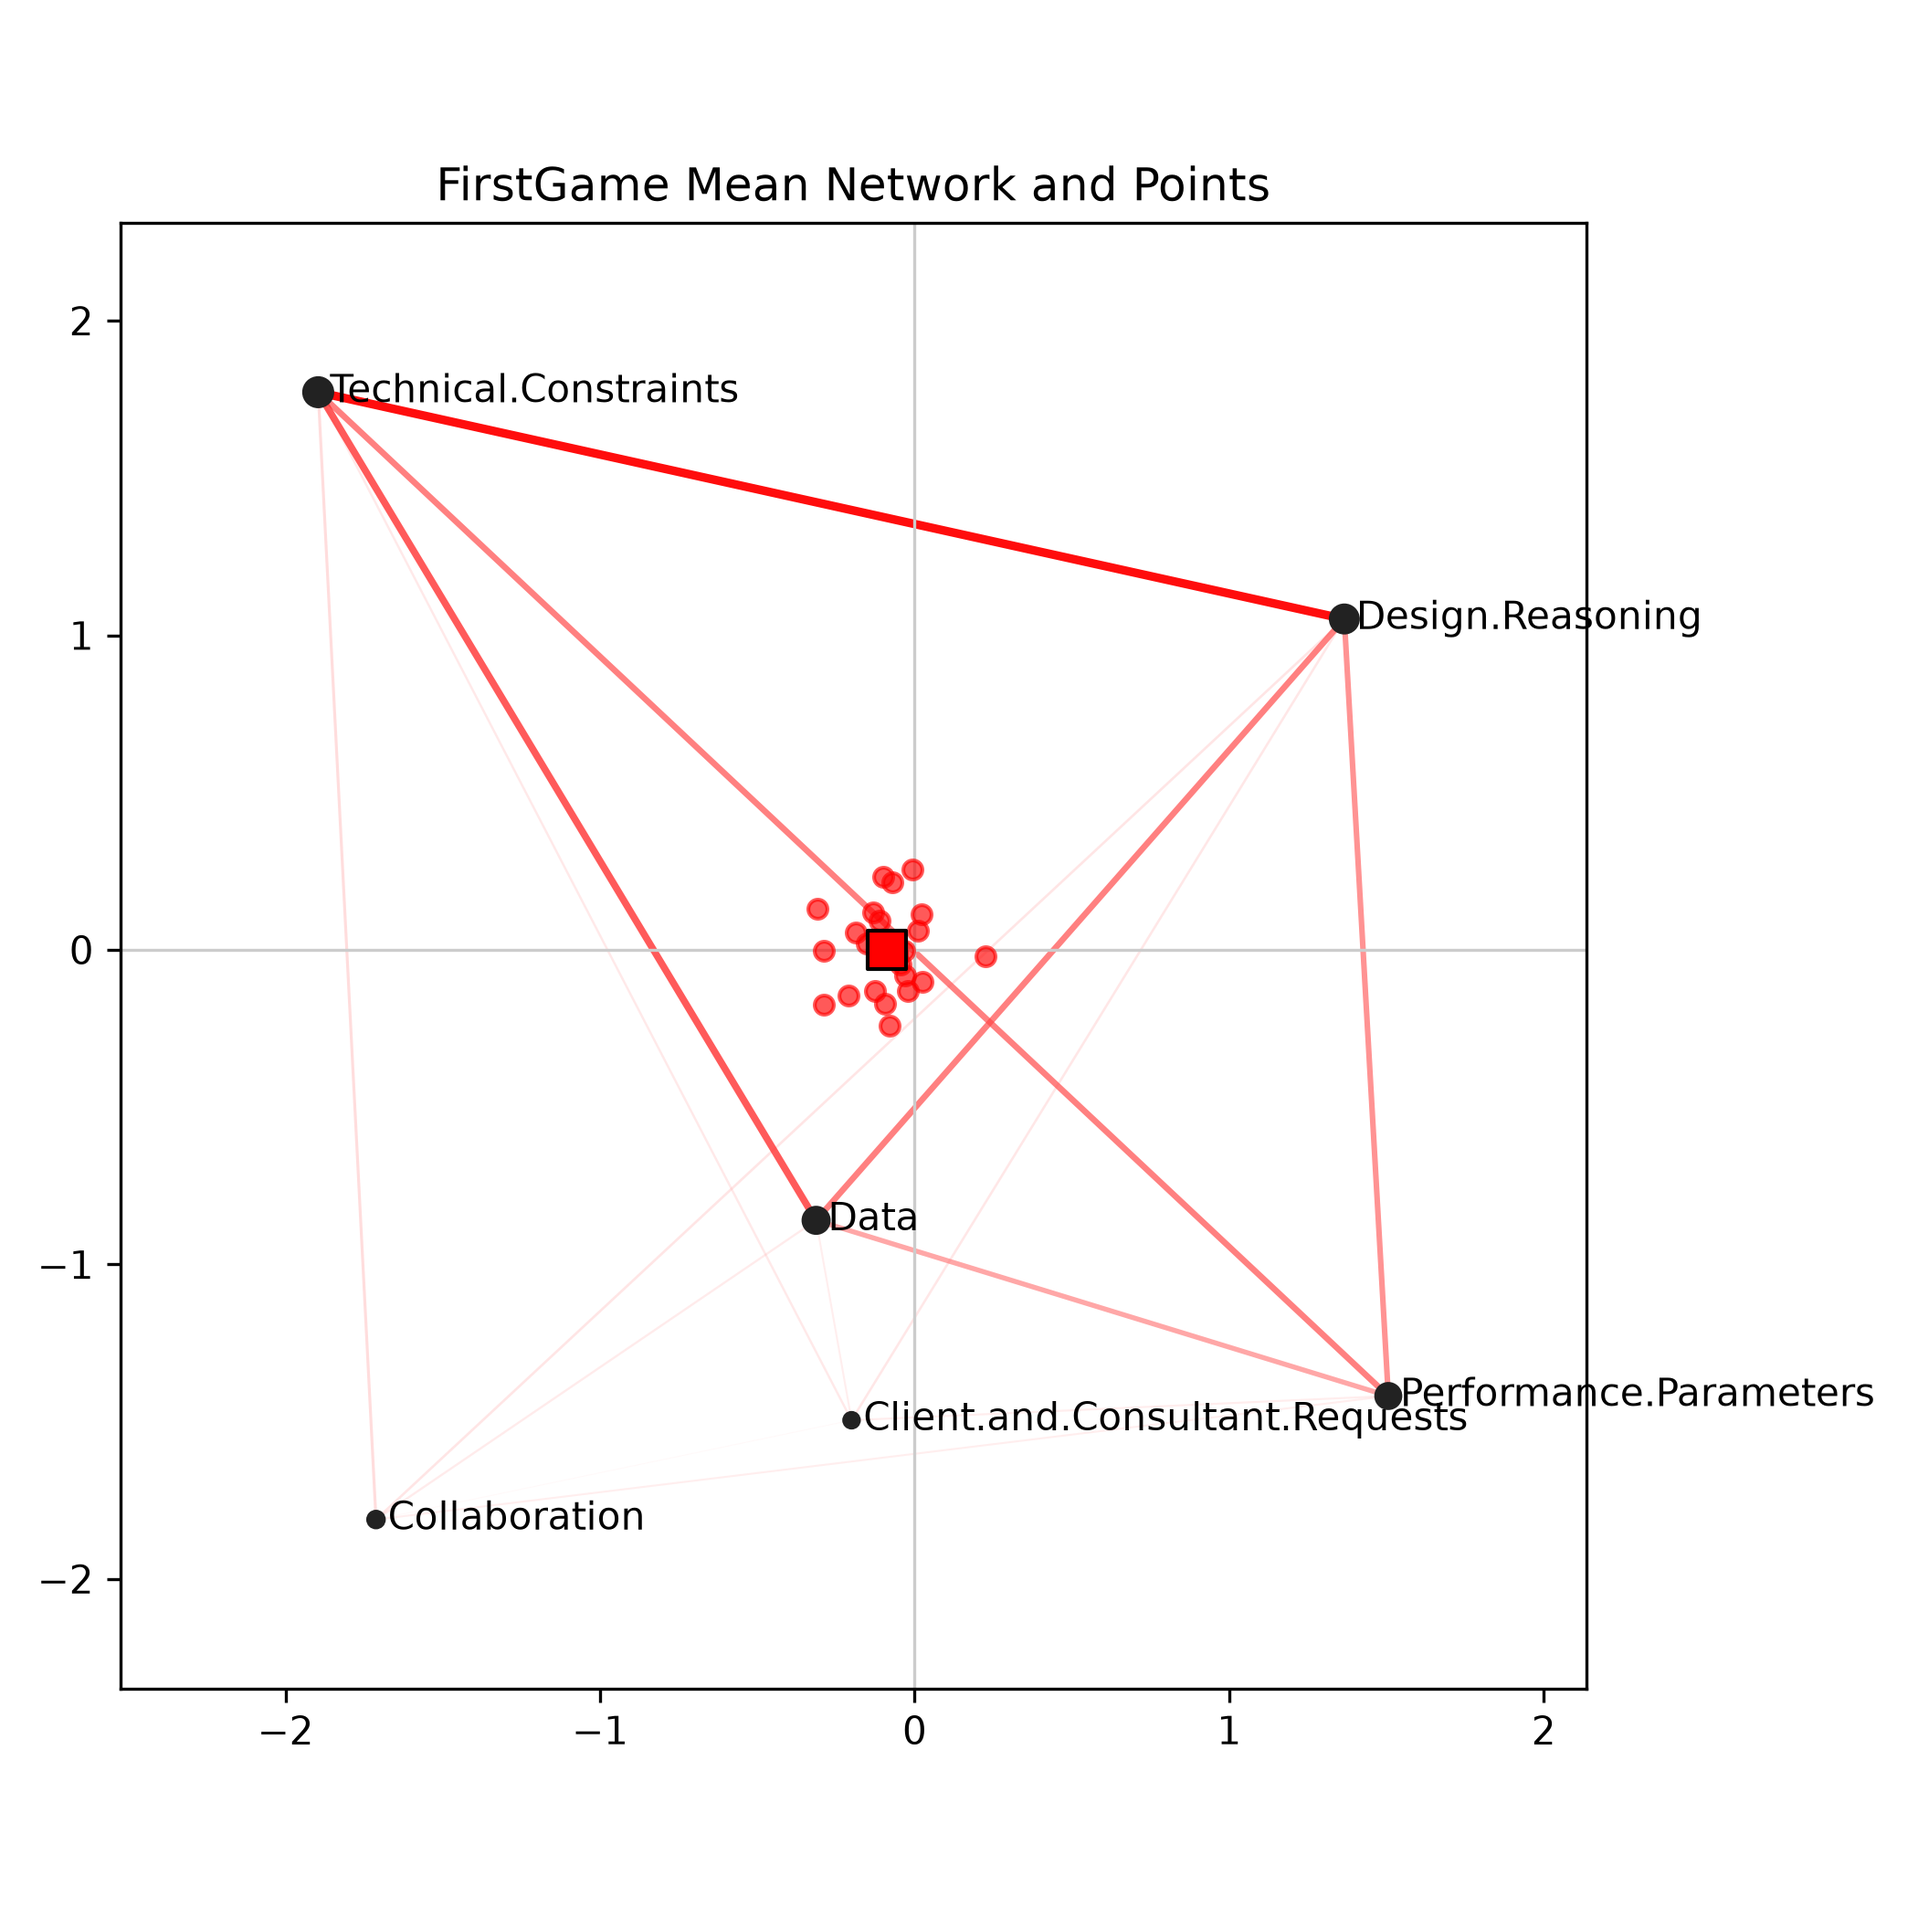
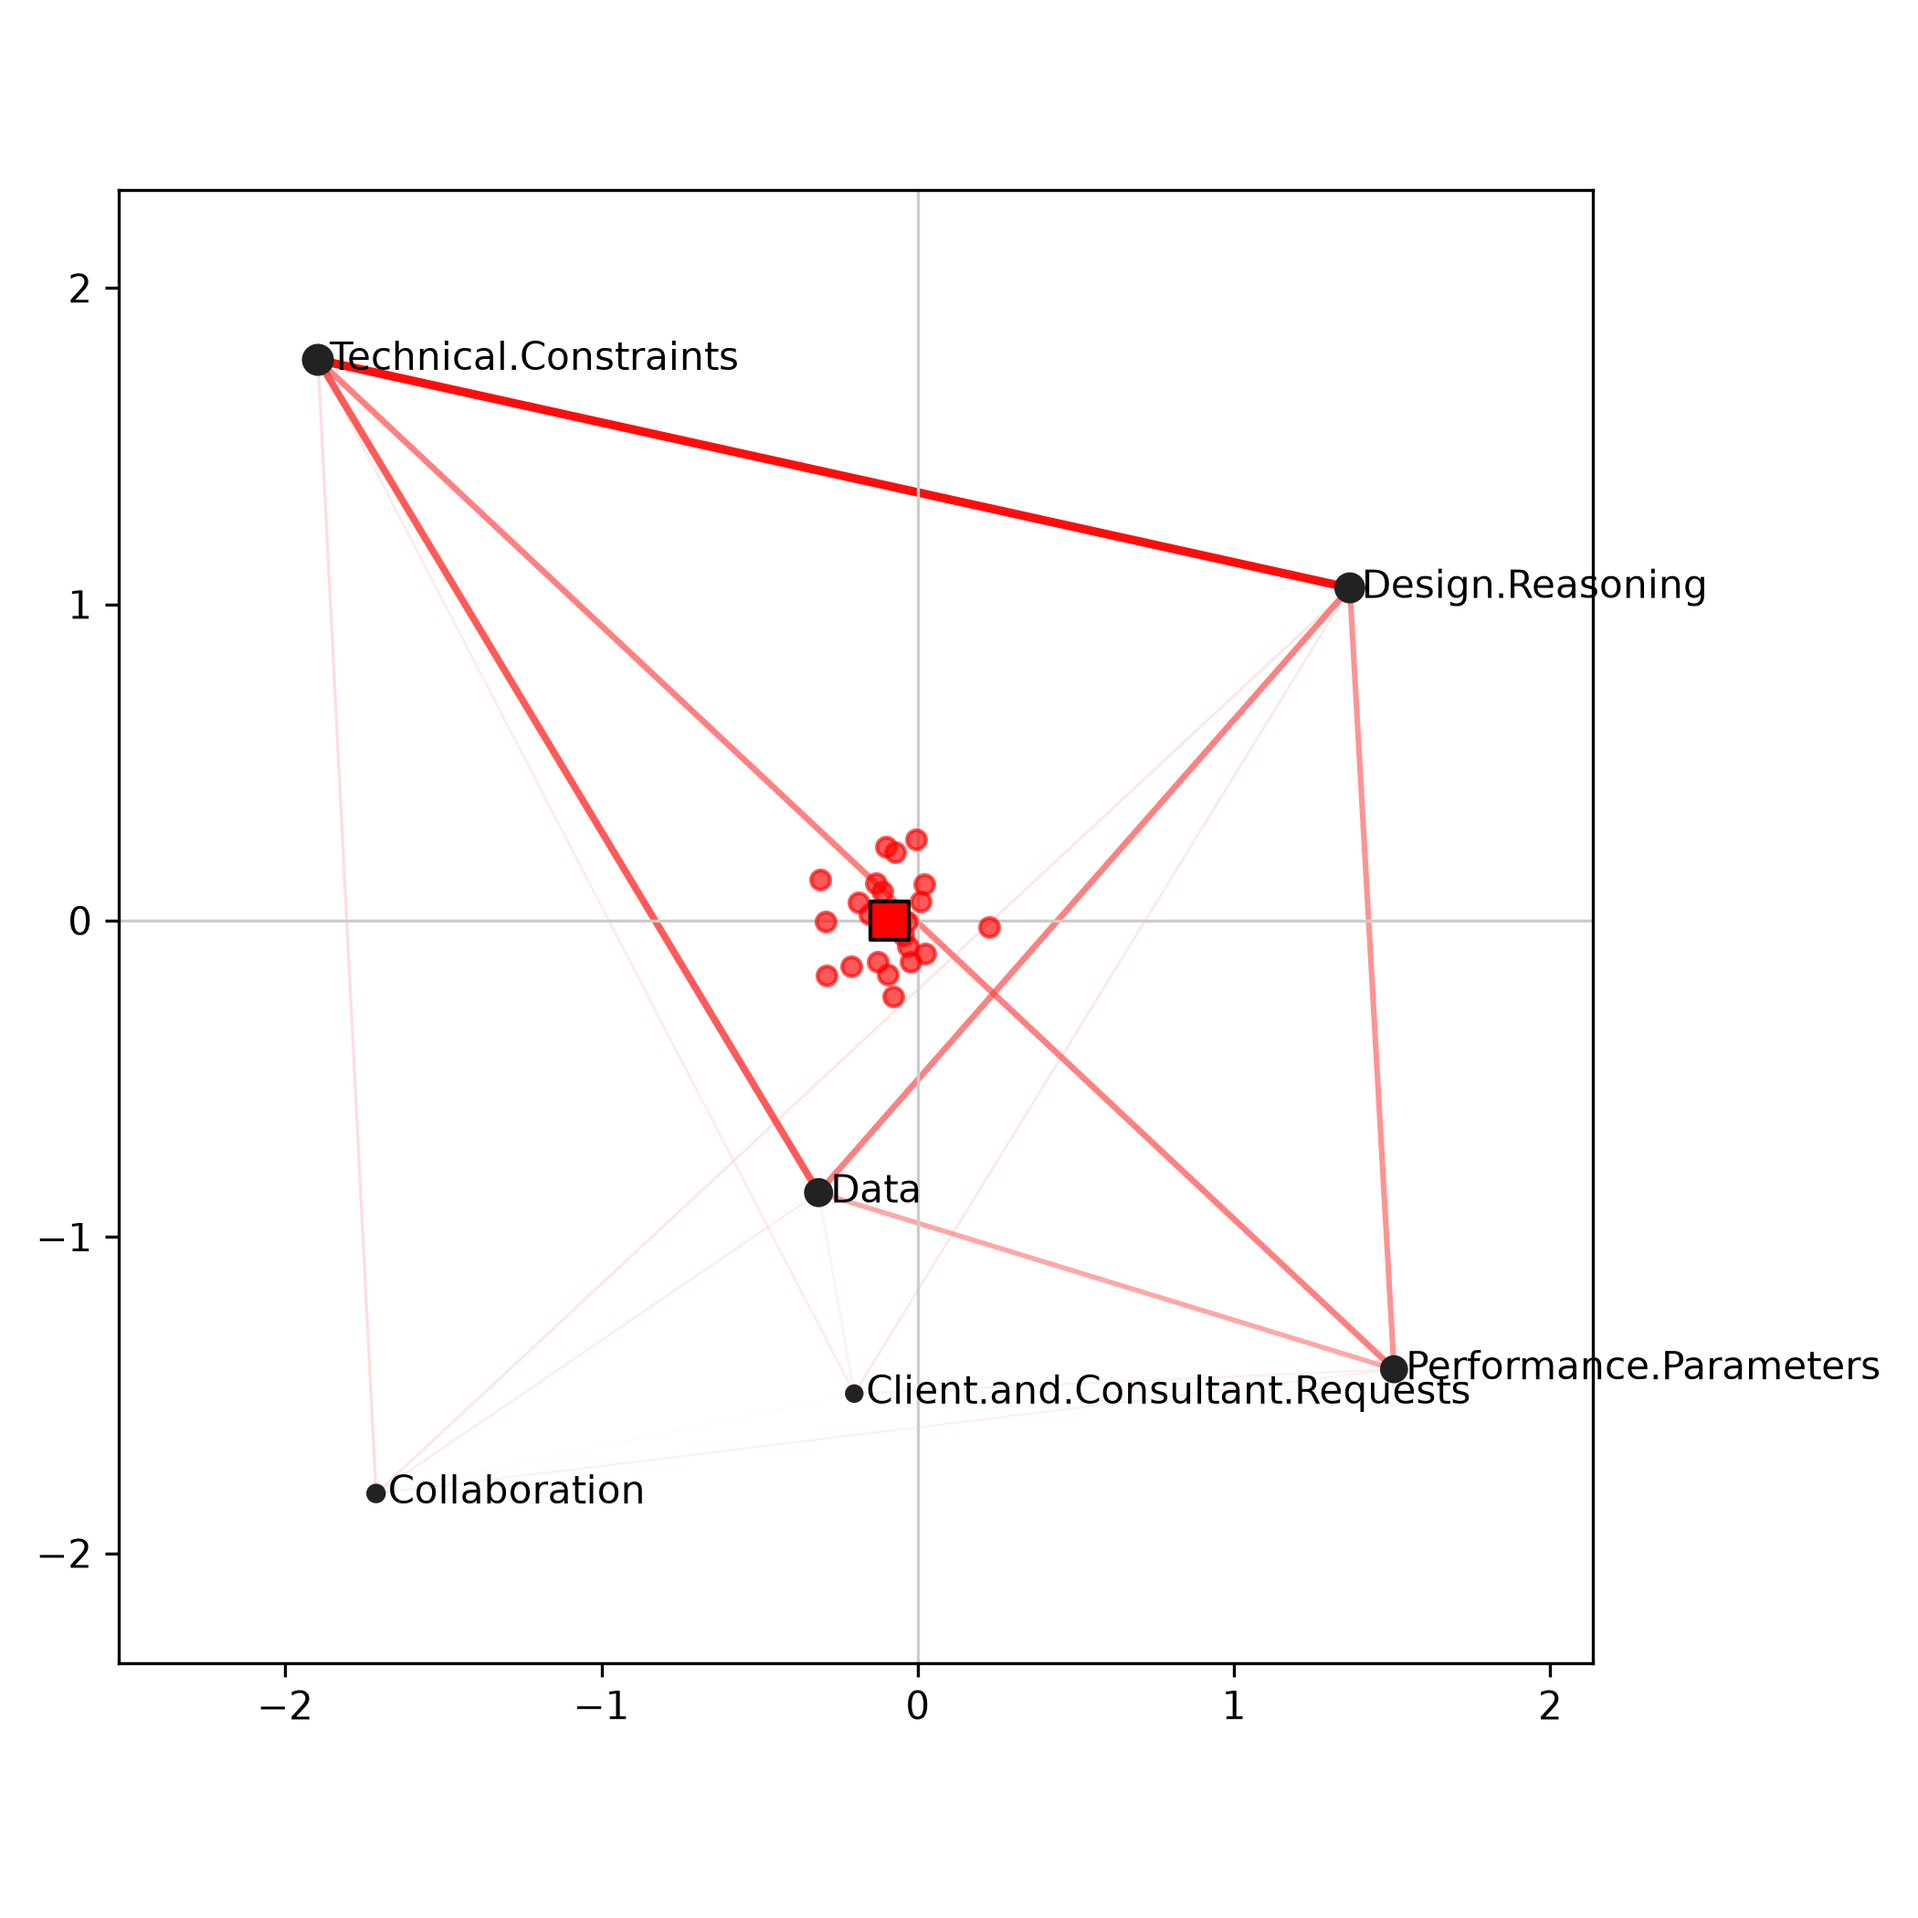
remove figure title

diff --git a/src/pyena/rena.py b/src/pyena/rena.py
@@ -790,7 +790,6 @@ def create_points_ci_plot(
 
     fig, ax = plt.subplots(figsize=figsize)
     plot_points_with_ci(ax, points, color, label)
-    ax.set_title(title)
     _apply_reference_axes(ax)
     ax.legend()
     return fig, ax
@@ -806,7 +805,6 @@ def create_points_ci_overlay_plot(
     fig, ax = plt.subplots(figsize=figsize)
     for points, color, label in point_groups:
         plot_points_with_ci(ax, points, color, label)
-    ax.set_title(title)
     _apply_reference_axes(ax)
     ax.legend()
     return fig, ax
@@ -1545,7 +1543,6 @@ def plot_network(
     y_min = float(np.min(coords[:, 1]))
     y_max = float(np.max(coords[:, 1]))
 
-    ax.set_title(title or "ENA Network")
     ax.set_aspect("equal", adjustable="box")
     _set_square_axis_limits(ax, x_min, x_max, y_min, y_max)
     _apply_reference_axes(ax)
